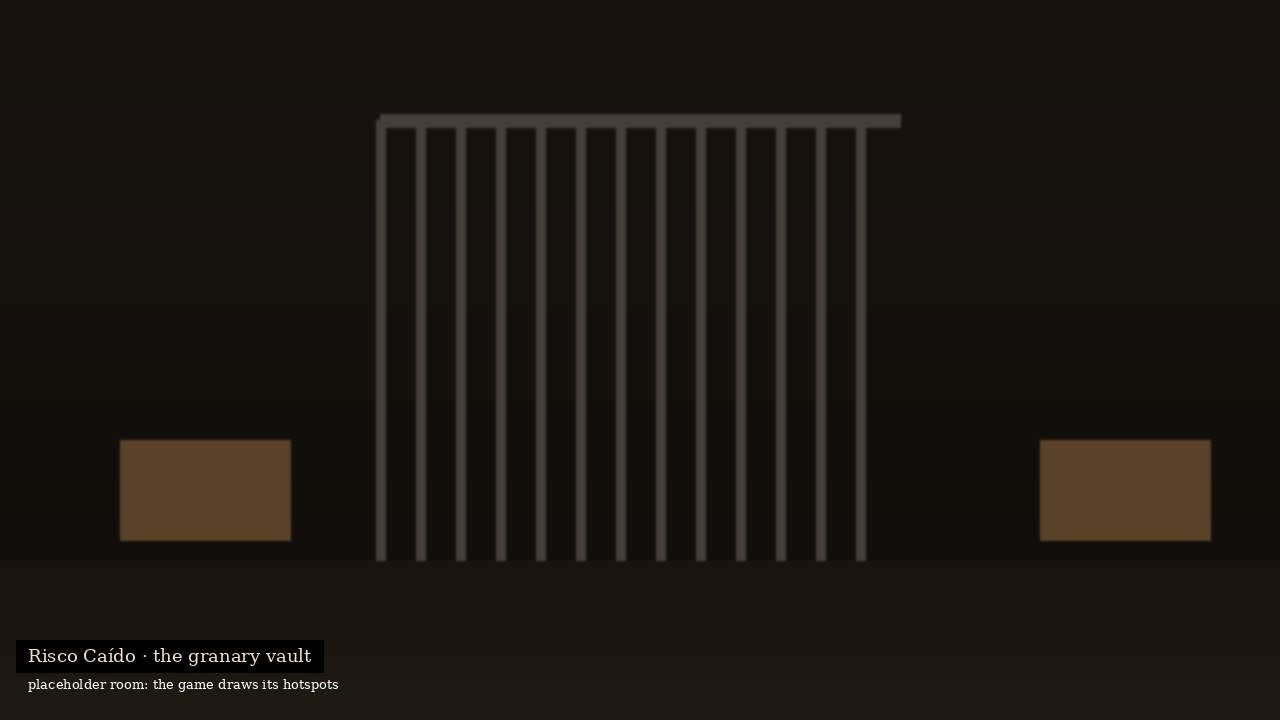
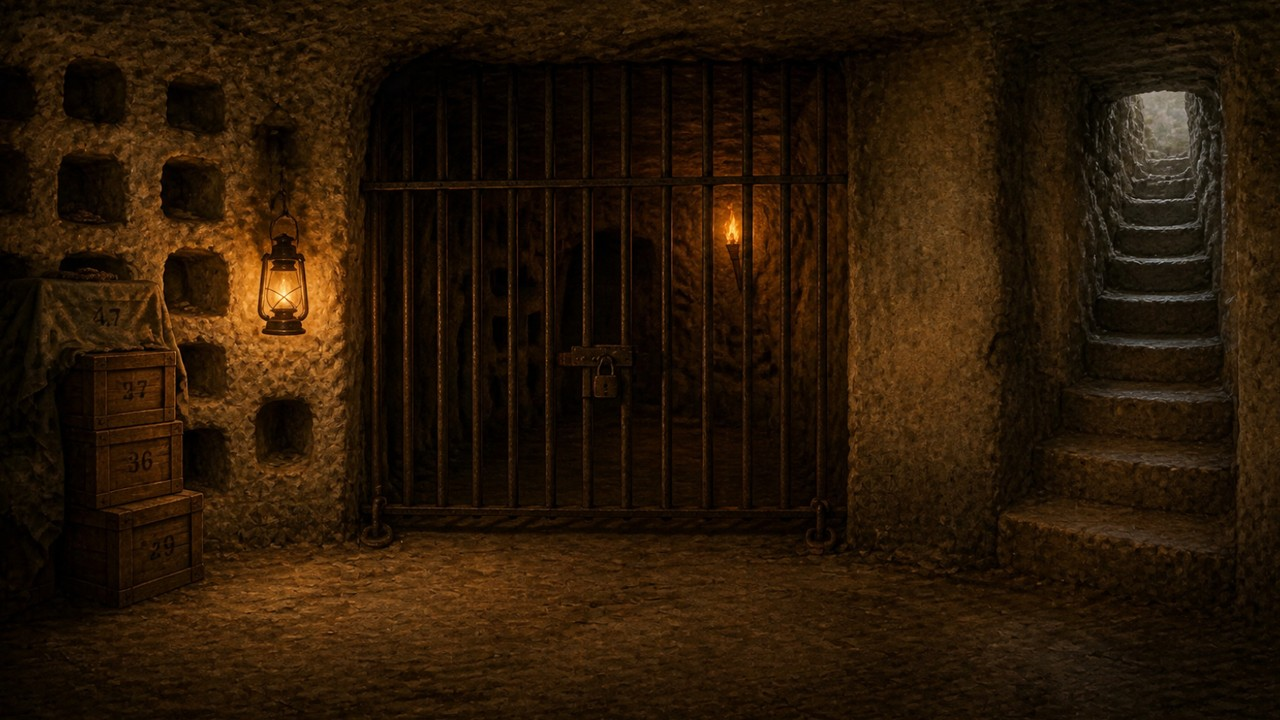
Sequel: the granary vault painted in Canva, with its layout
Claude-Session: https://claude.ai/code/session_016HTeTNSXEDV8gmJrtKWM3n

diff --git a/sequel/js/story/layout.js b/sequel/js/story/layout.js
@@ -42,6 +42,14 @@
         'Door to the steps': [1050, 230, 205, 300], 'Montesdeoca\'s van': [1050, 230, 205, 300], 'Out to Vegueta': [0, 120, 130, 440], 'Dinner table': [640, 290, 185, 230] },
       npcs: { baute: [560, 600], vasco: [780, 590], carmen: [1150, 545], montesdeoca: [320, 640], guard: [515, 545], gail: [940, 620], derek: [1030, 630] },
     },
+    vault: {
+      walk: [[0, 640], [210, 600], [360, 548], [850, 548], [1000, 600], [1040, 610], [1280, 640], [1280, 716], [0, 716]], scale: [548, 360, 716, 450],
+      entries: { default: [620, 640, 'e'], camp: [1060, 650, 'w'] },
+      spots: { 'Crates': [60, 340, 150, 270], 'Walls': [0, 40, 350, 220], 'The grille': [360, 60, 490, 470], 'Left anchor': [350, 500, 60, 50],
+        'Right anchor': [795, 495, 60, 55], 'The wall by the grille': [850, 150, 140, 380], 'Steps up': [1000, 80, 240, 520] },
+      npcs: { vasco: [620, 620], yeray: [930, 650] },
+      at: { 'Crates': [250, 650], 'Left anchor': [400, 600], 'Right anchor': [810, 600], 'The wall by the grille': [900, 620], 'Steps up': [1080, 640] },
+    },
     archive: {
       walk: [[90, 700], [380, 622], [860, 618], [960, 572], [1150, 572], [1160, 716], [90, 716]], scale: [580, 410, 716, 480],
       entries: { default: [1040, 600, 'w'], museum_hall: [1040, 600, 'w'] },

diff --git a/sequel/js/sprites_placeholders.js b/sequel/js/sprites_placeholders.js
@@ -515,4 +515,4 @@ window.SPRITES = Object.assign(window.SPRITES || {}, {
 "w": 300
 }
 });
-window.PLACEHOLDER_ART = {"bg": ["elena_car", "landrover", "map", "title", "vault"], "stills": ["still_arrival", "still_bad_ending", "still_barranco", "still_caught", "still_chain", "still_cloud_climb", "still_elena_bar", "still_fight", "still_fireworks", "still_isleta_flood", "still_love_1", "still_love_2", "still_mist", "still_pepe", "still_rafa_drawing", "still_rafa_night", "still_road_down", "still_sunrise", "still_title", "still_vault_dark"]};
+window.PLACEHOLDER_ART = {"bg": ["elena_car", "landrover", "map", "title"], "stills": ["still_arrival", "still_bad_ending", "still_barranco", "still_caught", "still_chain", "still_cloud_climb", "still_elena_bar", "still_fight", "still_fireworks", "still_isleta_flood", "still_love_1", "still_love_2", "still_mist", "still_pepe", "still_rafa_drawing", "still_rafa_night", "still_road_down", "still_sunrise", "still_title", "still_vault_dark"]};

diff --git a/sequel/index.html b/sequel/index.html
@@ -68,7 +68,7 @@
 </div>
 <script src="js/lines.js?v=1d91057b"></script>
 <script src="js/sprites_game1.js?v=acdd4454"></script>
-<script src="js/sprites_placeholders.js?v=d35f741b"></script>
+<script src="js/sprites_placeholders.js?v=26761ed0"></script>
 <script src="js/sprites_canva.js?v=5bbfad3b"></script>
 <script src="js/fx.js?v=6264ea85"></script>
 <script src="js/audio.js?v=ee3c71e9"></script>
@@ -102,7 +102,7 @@
 <script src="js/story/vasco.js?v=212fd3a2"></script>
 <script src="js/story/sun.js?v=1068e7a9"></script>
 <script src="js/story/mon.js?v=9680e820"></script>
-<script src="js/story/layout.js?v=187f1e4e"></script>
+<script src="js/story/layout.js?v=3896280f"></script>
 <script src="js/story/main.js?v=6f1cbbb2"></script>
 </body>
 </html>

diff --git a/sequel/art/canva/log.md b/sequel/art/canva/log.md
@@ -25,3 +25,4 @@
 - 2026-10-27 figure `chano_guard` Canva media MAHZPssDT0Y -> art/designs/chano_guard.png 
 - 2026-10-27 figure `fermin_mercedes` Canva media MAHZPoW2m5E -> art/designs/fermin_mercedes.png 
 - 2026-10-27 figure `montesdeoca_surfer` Canva media MAHZP7cSX5w -> art/designs/montesdeoca_surfer.png 
+- 2026-10-27 bg `vault` Canva media MAHZP5eMvdg -> art/bg/vault.jpg 
